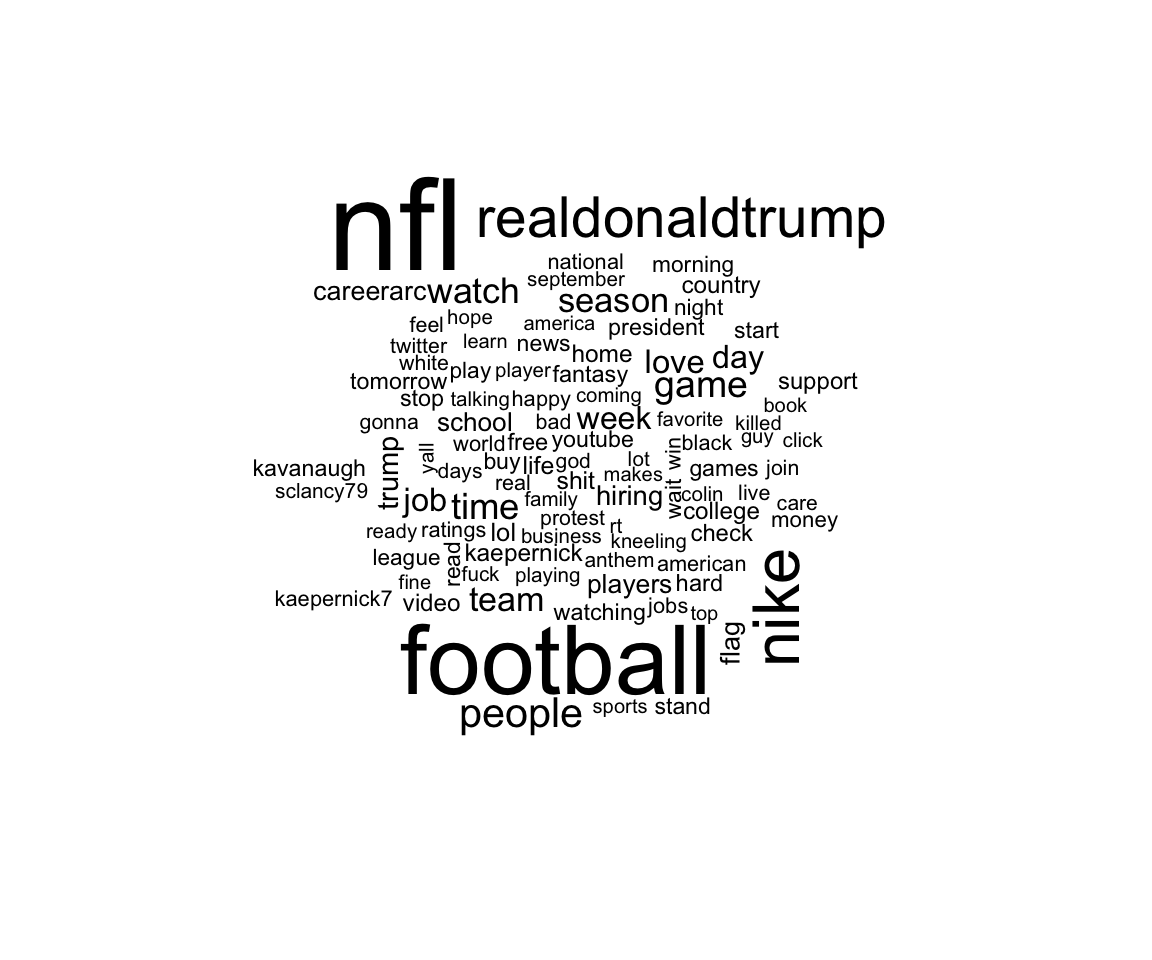
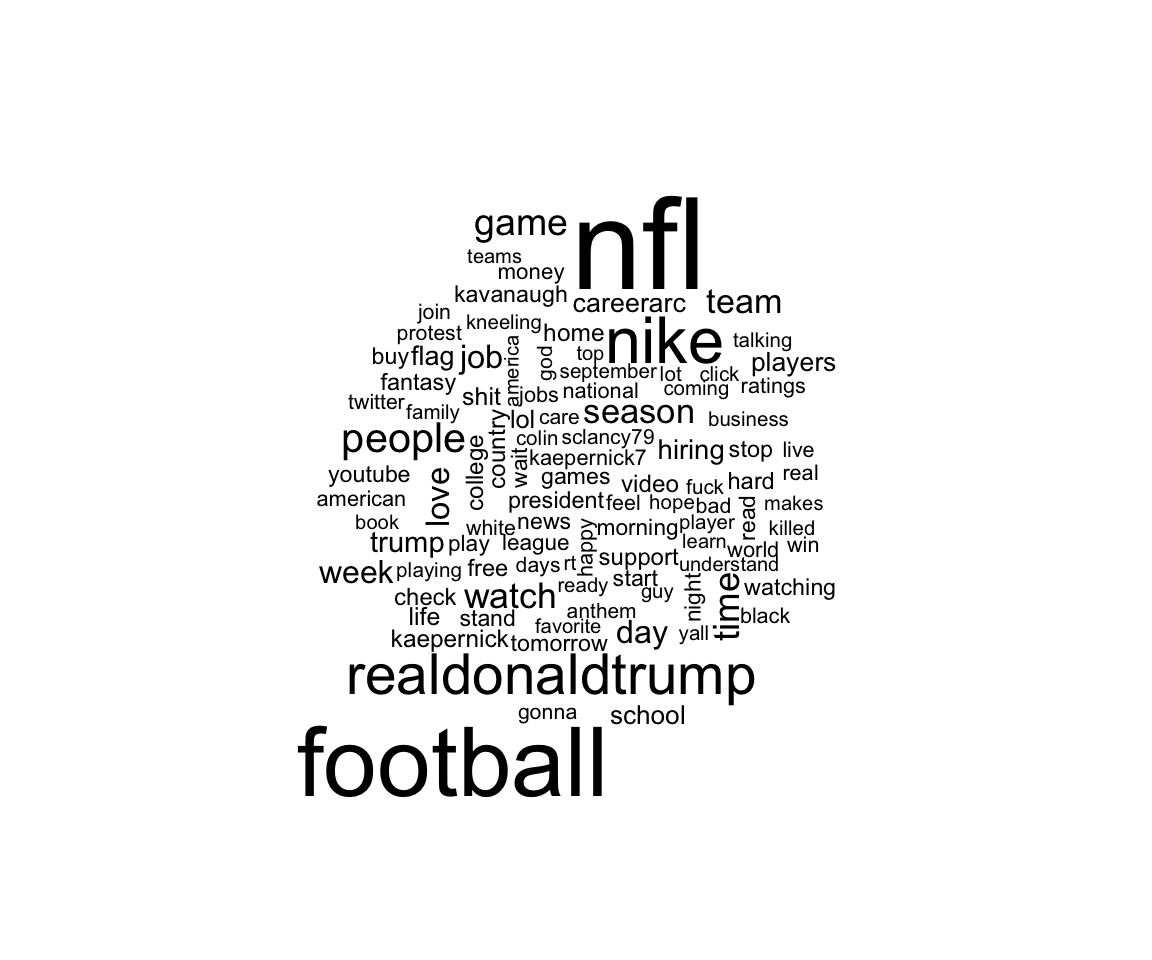
first commit

Changed region(s): [[0.2188, 0.1875, 0.7812, 0.8438]]

diff --git a/portfolio/textminingr/index.html b/portfolio/textminingr/index.html
@@ -419,8 +419,10 @@ sports_sentiments_bing &lt;- timelines_frequency %&gt;%
   count(word) %&gt;%
   with(wordcloud(word, n, max.words = 100))</code></pre>
 <pre><code>## Joining, by = &quot;word&quot;</code></pre>
-<pre><code>## Warning in wordcloud(word, n, max.words = 100): live could not be fit on
+<pre><code>## Warning in wordcloud(word, n, max.words = 100): usopen could not be fit on
 ## page. It will not be plotted.</code></pre>
+<pre><code>## Warning in wordcloud(word, n, max.words = 100): champions could not be fit
+## on page. It will not be plotted.</code></pre>
 <p><img src="/portfolio/TextMiningR_files/figure-html/unnamed-chunk-14-1.png" width="576" /></p>
 </div>
 </div>
